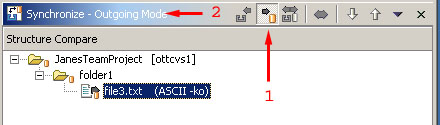
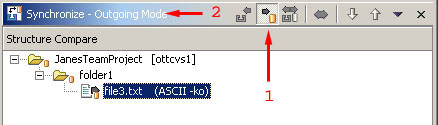
Screenshot update

diff --git a/bundles/org.eclipse.platform.doc.user/gettingStarted/qs-64c_catch_sync3_rel.htm b/bundles/org.eclipse.platform.doc.user/gettingStarted/qs-64c_catch_sync3_rel.htm
@@ -15,7 +15,7 @@
   <li>Place the Synchronize view into outgoing mode 
       by clicking on the Outgoing Mode button (#1) and confirming that the title 
       of the view now indicates we are in Outgoing Mode (#2). 
-      <p><img align="texttop" border="0" src="../images/Image84_relmode.jpg" width="440" height="125" alt="Outgoing mode"></p>
+      <p><img align="texttop" border="0" src="../images/Image84_relmode.jpg" width="438" height="125" alt="Outgoing mode"></p>
       </li>
   <li>Select file3.txt (the outgoing change).&nbsp; </li>
   <li>The comparison viewer shows that&nbsp;our copy 
